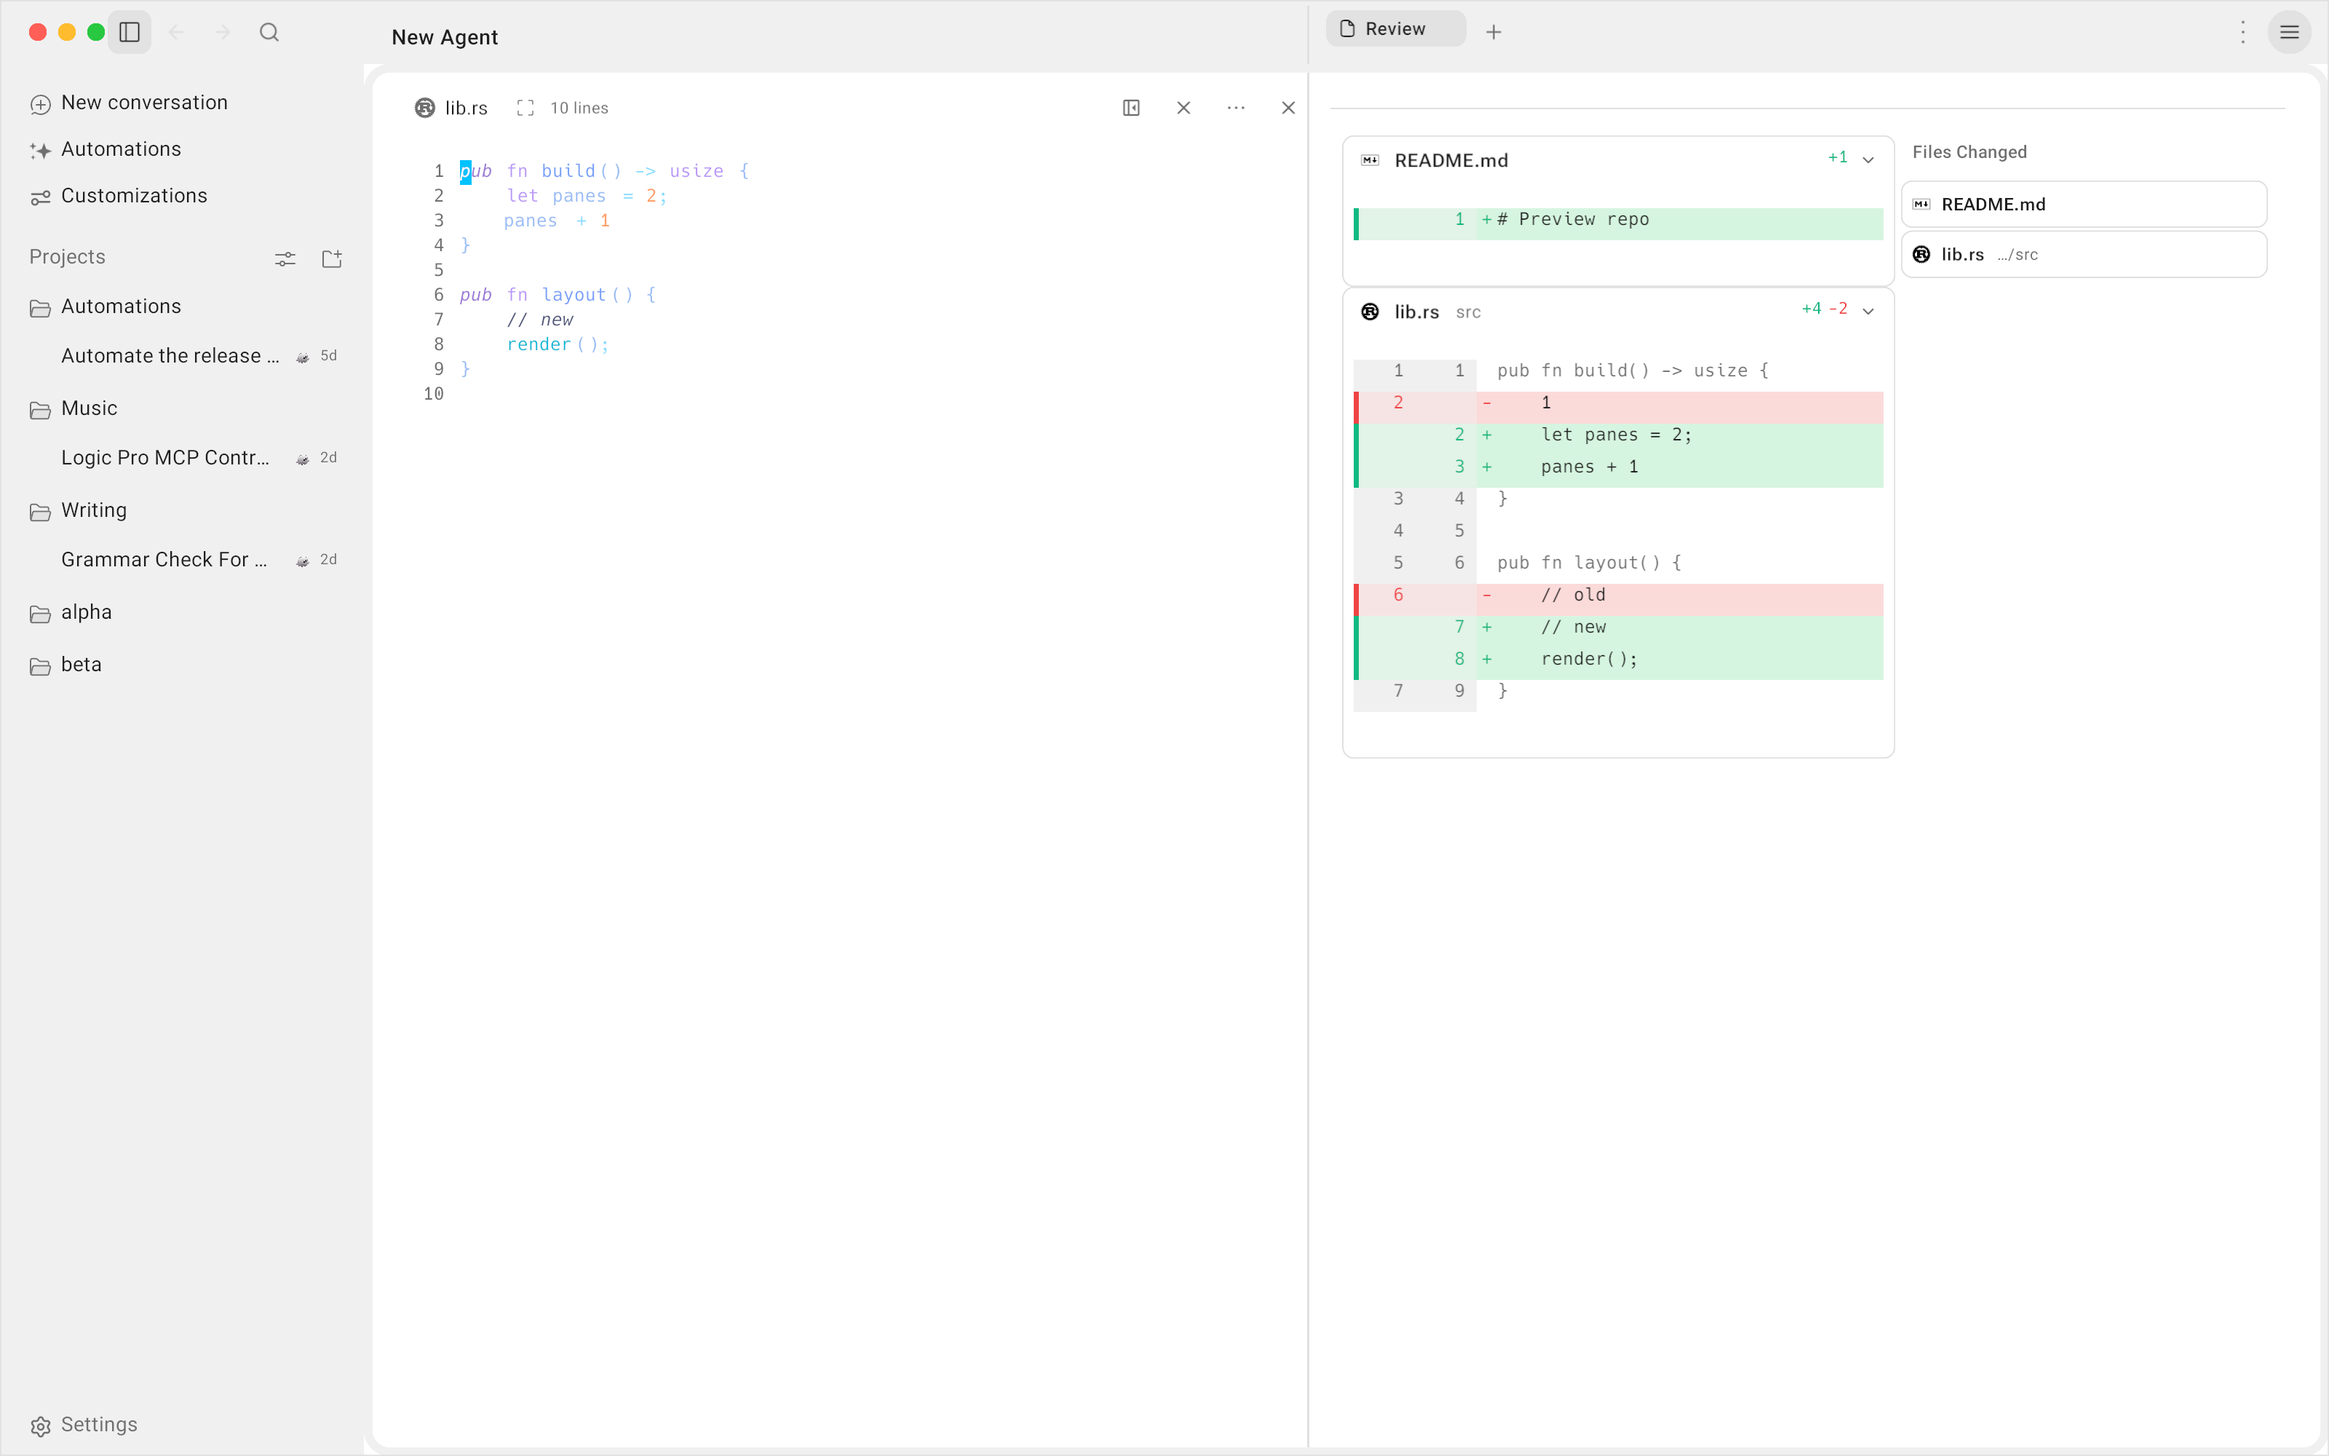
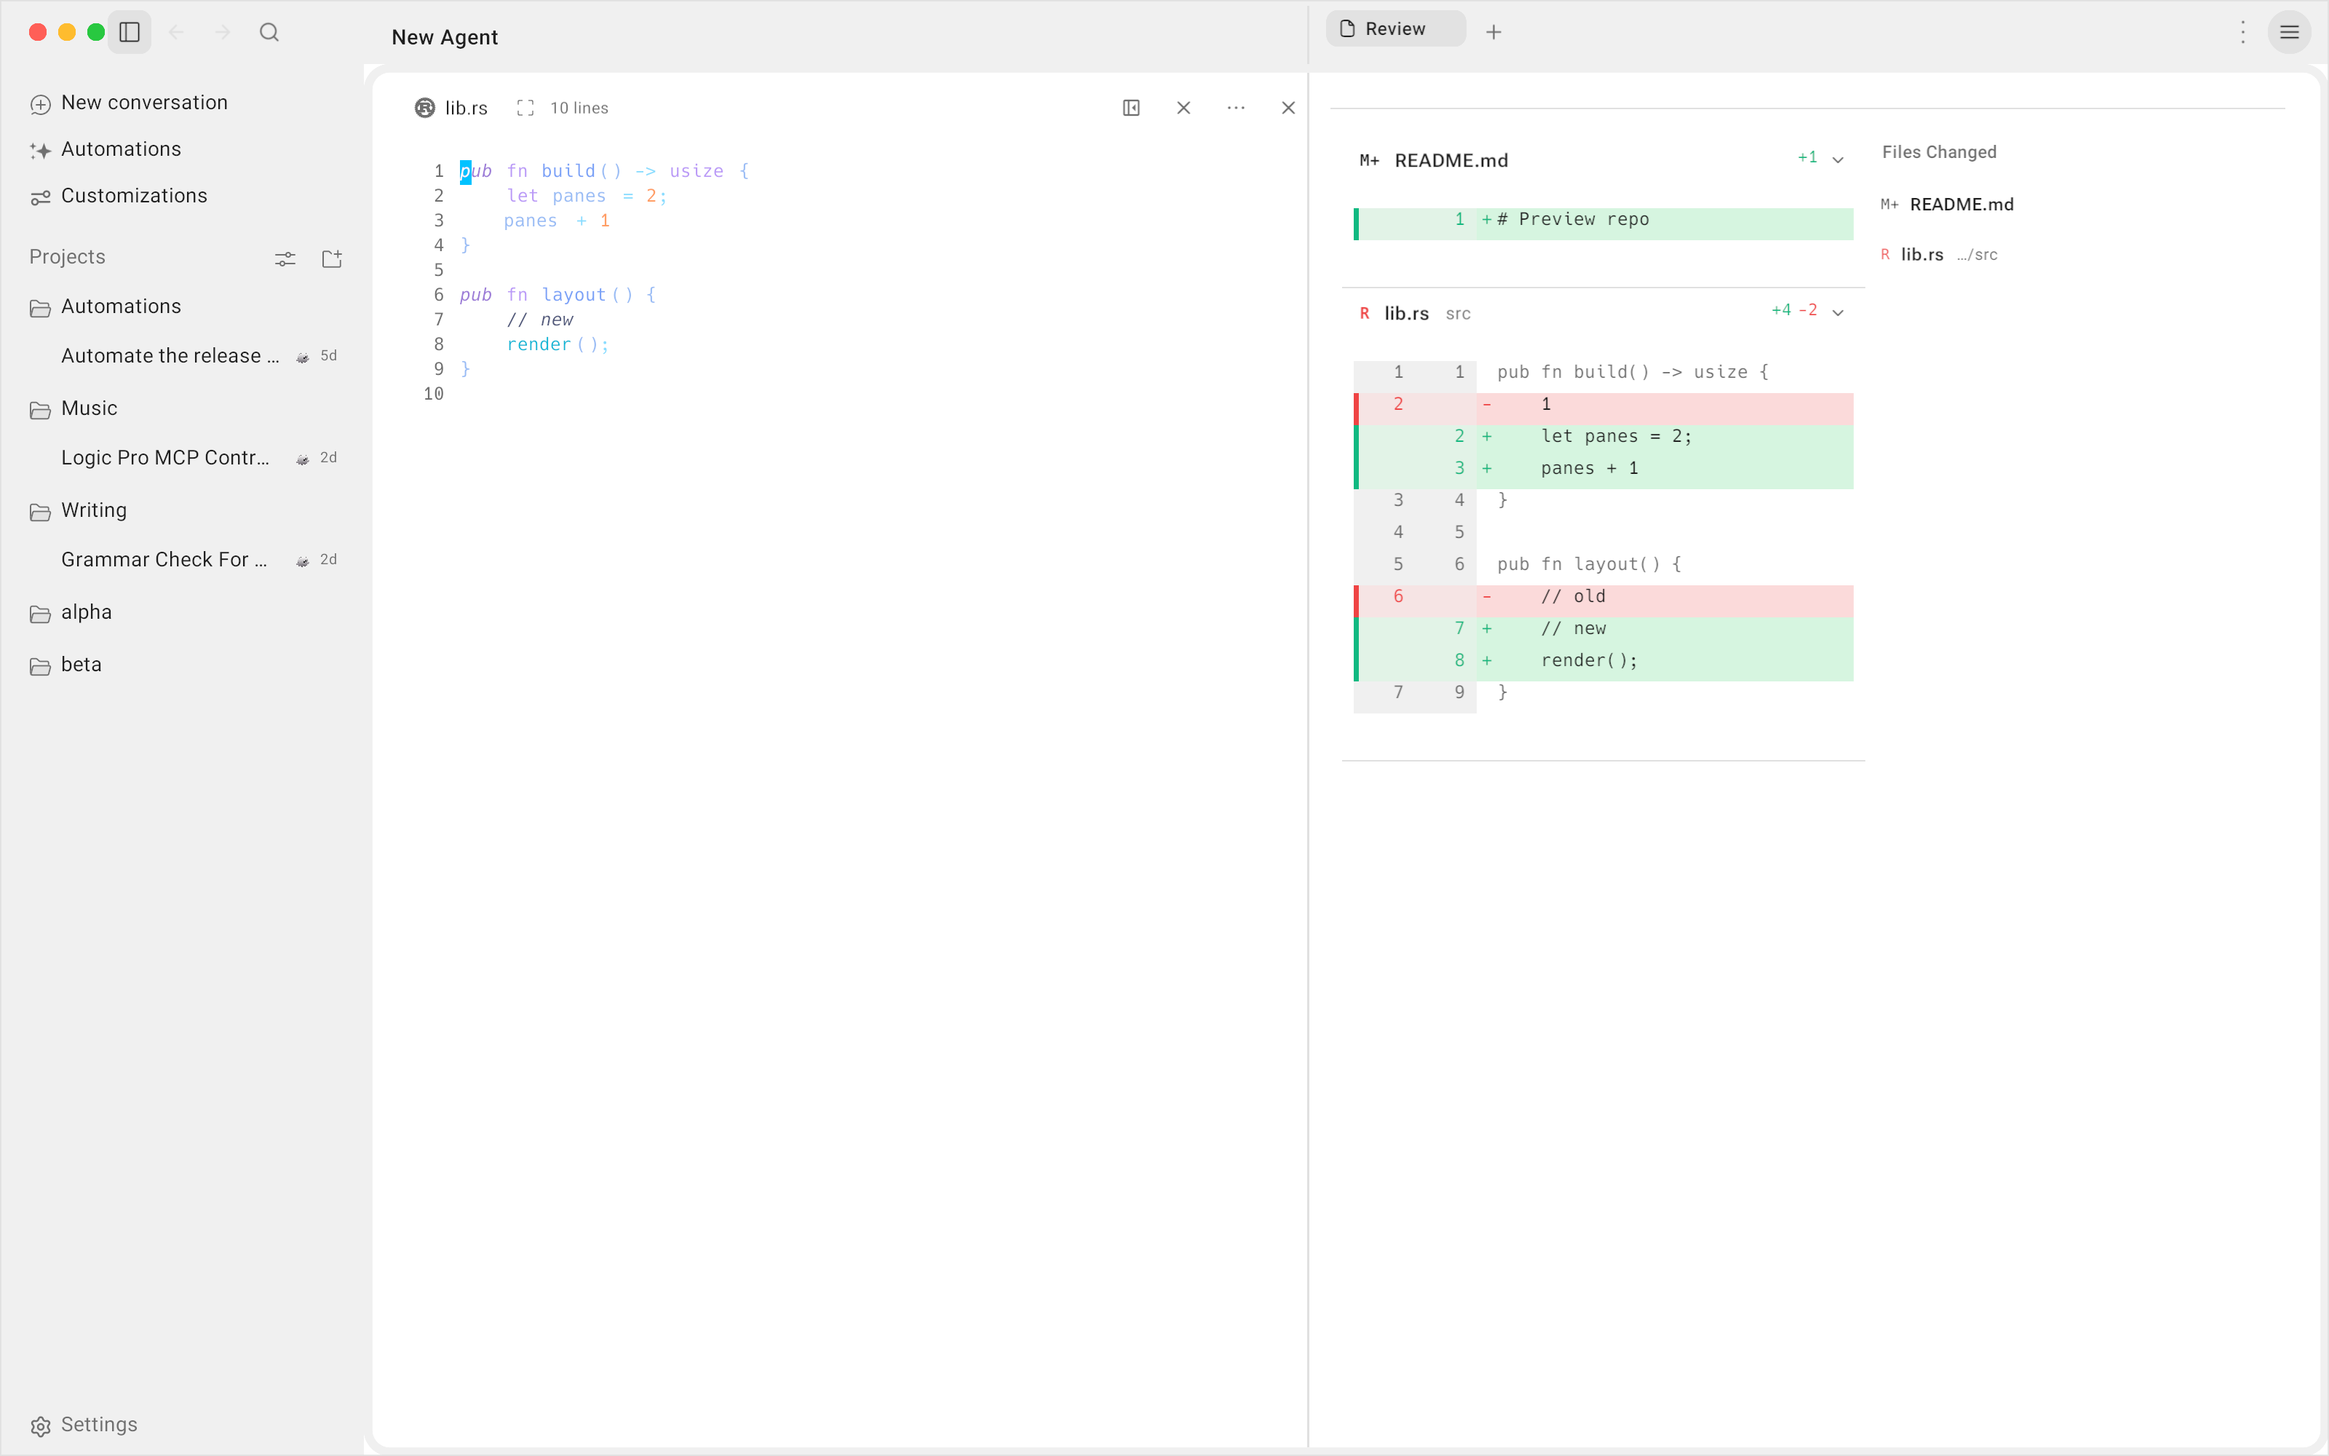
fix(review): flat file list, letter badges, 60/40 review proportions
214/215 — the left review column is flat again: one row per file, no per-row
card or outer border; per-extension letter badge, bold filename, left-truncated
muted path, right-aligned counts and fold chevron; thin 1 px dividers; hover
fill; the expanded diff sits directly under the row at full list width.
216 — the Files Changed rail is flat too (same badge/filename/path, no counts,
no per-row border) and scrolls.
217 — the panel width now uses the content area the sidebar leaves, so the file
list is ~60% and Files Changed ~40% of the review surface; the rail shows at the
normal side-panel width and the surface fills the panel with no dead gutter.
218/219 — real changed-file data and diffs, per-extension badges, and refreshed
same-scale review comparisons.

Tests: goble-app 916 passed / 8 documented baseline failures / 0 ignored;
goble-ui 981 passed / 0 failed / 0 ignored; goble-terminal shell integration 2
passed.

diff --git a/apps/desktop/src/ui/reviewer.rs b/apps/desktop/src/ui/reviewer.rs
@@ -1374,20 +1374,17 @@ mod ui_tests {
         );
     }
 
-    /// 204: each extension gets its real file-type asset; unknown text files
-    /// fall back to the generic document.
+    /// 218: the letter badge is per-extension and keeps the reference's glyphs.
     #[test]
-    fn file_rows_use_the_per_extension_assets() {
-        assert_eq!(super::file_type_icon("src/lib.rs"), "file-rust");
-        assert_eq!(super::file_type_icon("include/wheel.h"), "file-c");
-        assert_eq!(super::file_type_icon("wheel.c"), "file-c");
-        assert_eq!(super::file_type_icon("queue.cpp"), "file-cpp");
-        assert_eq!(super::file_type_icon("README.md"), "file-markdown");
-        assert_eq!(super::file_type_icon("package.json"), "file-json");
-        assert_eq!(super::file_type_icon("config.yaml"), "file-json");
-        assert_eq!(super::file_type_icon("run.sh"), "terminal");
-        assert_eq!(super::file_type_icon("Makefile"), "file");
-        assert_eq!(super::file_type_icon("LICENSE"), "file");
+    fn file_rows_use_per_extension_badges() {
+        assert_eq!(super::type_badge("src/lib.rs"), "R");
+        assert_eq!(super::type_badge("include/wheel.h"), "h");
+        assert_eq!(super::type_badge("wheel.c"), "c");
+        assert_eq!(super::type_badge("queue.cpp"), "c++");
+        assert_eq!(super::type_badge("README.md"), "M+");
+        assert_eq!(super::type_badge("package.json"), "{}");
+        assert_eq!(super::type_badge("config.yaml"), "Y");
+        assert_eq!(super::type_badge("run.sh"), ">_");
     }
 
     /// The toolbar toggles are real: the state flips and the bar's own label
@@ -1512,8 +1509,11 @@ pub(crate) fn files_changed_rail(
             .with_cross_axis_alignment(CrossAxisAlignment::Center)
             .with_spacing(7.0)
             .with_child(
-                Icon::new(file_type_icon(&file.path))
-                    .with_size(14.0)
+                Text::new(type_badge(&file.path))
+                    .with_font_family(FontFamily::Mono)
+                    .with_font_size(10.0)
+                    .with_weight(FontWeight::SemiBold)
+                    .with_theme_color(badge_color(&file.path), app)
                     .finish(),
             )
             .with_child(
@@ -1537,8 +1537,7 @@ pub(crate) fn files_changed_rail(
                 .finish(),
             )
             .finish();
-        // 210: the Files Changed rows wear the same 1 px rounded border as the
-        // left file cards; hover/selection only changes the fill inside.
+        // 216: flat Files Changed rows, no per-row border.
         let row = HoverRow::new(
             Container::new(row)
                 .with_padding(EdgeInsets::new(7.0, 9.0, 7.0, 9.0))
@@ -1551,10 +1550,6 @@ pub(crate) fn files_changed_rail(
             (on_files.borrow_mut())(absolute.clone());
         })
         .finish();
-        let row = Container::new(row)
-            .with_border(Border::all(1.0).with_border_color(app.theme.color(ColorToken::Border)))
-            .with_corner_radius(8.0)
-            .finish();
         column = column.with_child(row);
     }
     ConstrainedBox::new(
@@ -1578,41 +1573,6 @@ fn short_dir(path: &str) -> String {
         String::new()
     } else {
         format!("…/{tail}")
-    }
-}
-
-/// 204: the per-extension asset the file rows draw instead of a generic
-/// document/letter badge. Unknown text files fall back to the generic file.
-pub(crate) fn file_type_icon(path: &str) -> &'static str {
-    let name = short_name(path);
-    let lower = name.to_ascii_lowercase();
-    if lower == "makefile" {
-        return "file";
-    }
-    if lower == "readme.md" {
-        return "file-markdown";
-    }
-    let ext = lower.rsplit_once('.').map(|(_, ext)| ext).unwrap_or("");
-    match ext {
-        "rs" => "file-rust",
-        "c" | "h" => "file-c",
-        "cc" | "cpp" | "cxx" | "hpp" | "hh" | "mm" => "file-cpp",
-        "py" | "pyi" => "file-python",
-        "js" | "jsx" | "mjs" | "cjs" => "file-javascript",
-        "ts" | "tsx" => "file-typescript",
-        "json" | "jsonc" | "yaml" | "yml" | "toml" => "file-json",
-        "md" | "mdx" => "file-markdown",
-        "go" => "file-go",
-        "sql" => "file-sql",
-        "zig" => "file-zig",
-        "wasm" => "file-wasm",
-        "kt" | "kts" => "file-kotlin",
-        "php" => "file-php",
-        "pl" | "pm" => "file-perl",
-        "tf" | "tfvars" => "file-terraform",
-        "mmd" => "file-mermaid",
-        "sh" | "bash" | "zsh" | "fish" => "terminal",
-        _ => "file",
     }
 }
 
@@ -1648,9 +1608,13 @@ pub(crate) fn badge_color(path: &str) -> ColorToken {
         .map(|(_, ext)| ext.to_string())
         .unwrap_or_default();
     match ext.as_str() {
-        "h" | "hpp" | "c" | "cc" | "cpp" | "rs" | "ts" | "tsx" | "js" | "jsx" => ColorToken::Accent,
-        "json" => ColorToken::Warning,
-        "yaml" | "yml" | "sh" | "bash" | "zsh" => ColorToken::Success,
+        "h" | "hpp" => ColorToken::Focus,
+        "c" | "cc" | "cpp" => ColorToken::Success,
+        "rs" => ColorToken::Error,
+        "ts" | "tsx" | "js" | "jsx" => ColorToken::Warning,
+        "json" | "yaml" | "yml" => ColorToken::Warning,
+        "sh" | "bash" | "zsh" => ColorToken::Success,
+        "md" => ColorToken::Text,
         _ => ColorToken::Muted,
     }
 }

diff --git a/apps/desktop/src/ui/diff_panel.rs b/apps/desktop/src/ui/diff_panel.rs
@@ -309,12 +309,24 @@ pub(crate) fn build_review_tab(
         .is_some_and(|controls| *controls.diff_commit_open.borrow());
     // A narrow panel shows the diff alone: the ReviewTab selector in the
     // header still chooses files, and the one rail is the wide-layout list.
+    // The side panel is the trailing share of the content area the sidebar
+    // leaves, not of the whole window. Using the window width here made the
+    // rail too wide and squeezed the file list.
+    let area_width = (state.window_size.x
+        - if state.sidebar_visible {
+            state.sidebar_width
+        } else {
+            0.0
+        })
+    .max(240.0);
     let panel_width = if state.side_panel_maximized {
-        state.window_size.x.max(900.0)
+        area_width.max(900.0)
     } else {
-        (state.window_size.x * state.side_split_ratio).max(240.0)
+        (area_width
+            * crate::ui::build::resolved_side_split_ratio(state.side_split_ratio, area_width))
+        .max(240.0)
     };
-    let show_rail = panel_width >= 760.0;
+    let show_rail = panel_width >= 520.0;
     let compact = panel_width < 900.0;
 
     let mut column = Flex::column()
@@ -334,7 +346,11 @@ pub(crate) fn build_review_tab(
         }
         let selected = controls.diff_selected.borrow().clone();
         let expanded = controls.diff_expanded.borrow().clone();
-        let rail_width = if show_rail { 260.0 } else { 0.0 };
+        let rail_width = if show_rail {
+            (panel_width * 0.40).clamp(200.0, 420.0)
+        } else {
+            0.0
+        };
         let editing = controls.diff_editing.borrow().clone();
         let editors = state.pane_diff_editors.get(&pane_id);
         column = column.with_child(
@@ -1225,23 +1241,22 @@ fn file_block(
             content_width,
         ));
     }
-    // 202: every file is a full-width card with a 1 px rounded Border; the
-    // inline diff lives inside it and hover/selection paint over the border.
-    let card = Container::new(column.finish())
-        .with_border(Border::all(1.0).with_border_color(app.theme.color(ColorToken::Border)))
-        .with_corner_radius(8.0)
-        .finish();
-    let card: Box<dyn Element> = if content_width > 0.0 {
-        ConstrainedBox::new(card).with_width(content_width).finish()
+    // 214: the file list is flat — no per-file card or outer border. One thin
+    // divider closes each row and the expanded diff sits inside that row.
+    column = column.with_child(Divider::horizontal().finish());
+    let row: Box<dyn Element> = if content_width > 0.0 {
+        ConstrainedBox::new(column.finish())
+            .with_width(content_width)
+            .finish()
     } else {
-        card
+        column.finish()
     };
-    // The whole card is still the file's context-menu target.
+    // The whole row is still the file's context-menu target.
     let on_file_menu = actions.on_file_menu.clone();
     let menu_path = file.absolute_path.clone();
     let menu_copy_path = file.path.clone();
     file_menu::context_click(
-        card,
+        row,
         Rc::new(RefCell::new(move |at| {
             (on_file_menu.borrow_mut())(menu_path.clone(), menu_copy_path.clone(), at);
         })),
@@ -1278,8 +1293,11 @@ fn file_header(
         .with_cross_axis_alignment(CrossAxisAlignment::Center)
         .with_spacing(10.0)
         .with_child(
-            Icon::new(reviewer::file_type_icon(&file.path))
-                .with_size(14.0)
+            Text::new(reviewer::type_badge(&file.path))
+                .with_font_family(FontFamily::Mono)
+                .with_font_size(11.0)
+                .with_weight(FontWeight::Bold)
+                .with_theme_color(reviewer::badge_color(&file.path), app)
                 .finish(),
         )
         .with_child(

diff --git a/apps/desktop/src/ui/diff_panel_tests.rs b/apps/desktop/src/ui/diff_panel_tests.rs
@@ -975,7 +975,7 @@ fn a_large_inline_editor_draws_only_the_rows_in_view() {
 /// Y: changed files are flat full-width rows with one thin divider under each,
 /// not rounded cards or bordered boxes.
 #[test]
-fn every_file_card_has_a_rounded_border_at_the_column_width() {
+fn every_file_row_is_flat_with_a_thin_divider() {
     if !git_available() {
         return;
     }
@@ -986,34 +986,35 @@ fn every_file_card_has_a_rounded_border_at_the_column_width() {
     let (mut root, _desktop, _state, _dir, app) = review_root(&cwd);
     let commands = frame(&mut root, &app);
     let border = app.theme.color(goble_ui::theme::ColorToken::Border);
-    let cards: Vec<goble_ui::geometry::RectF> = commands
+    let dividers = commands
         .iter()
-        .filter_map(|command| match command {
-            RenderCommand::StrokeRect {
-                rect,
-                color,
-                corner_radius,
-                ..
-            } if *color == border
-                && (*corner_radius - 8.0).abs() < 0.01
-                && rect.height() > 30.0
-                && rect.width() > 200.0 =>
-            {
-                Some(*rect)
-            }
-            _ => None,
+        .filter(|command| {
+            matches!(
+                command,
+                RenderCommand::FillRect { rect, color, .. }
+                    if *color == border
+                        && rect.height() <= 1.01
+                        && rect.width() > 200.0
+            )
         })
-        .collect();
-    assert!(cards.len() >= 2, "both files wear a card border: {cards:?}");
-    let width = cards[0].width();
+        .count();
     assert!(
-        cards.iter().all(|card| (card.width() - width).abs() < 0.6),
-        "every card spans the same full list column: {cards:?}"
+        dividers >= 2,
+        "each file ends in a thin divider: {dividers}"
     );
-    assert!(
-        width > window().x * 0.35,
-        "the file column is not a narrow fixed rail: {width}"
-    );
+    let bordered_rows = commands
+        .iter()
+        .filter(|command| {
+            matches!(
+                command,
+                RenderCommand::StrokeRect { rect, corner_radius, .. }
+                    if (*corner_radius - 8.0).abs() < 0.01
+                        && rect.height() > 30.0
+                        && rect.width() > 200.0
+            )
+        })
+        .count();
+    assert_eq!(bordered_rows, 0, "the list has no per-row outer border");
 }
 
 #[test]

diff --git a/docs/design/README.md b/docs/design/README.md
@@ -179,10 +179,11 @@ unchanged composer (`slash-menu-*`), the Review tab beside the main chat
 (`split-review-*`), the file viewer with Review beside it
 (`split-file-viewer-*`) and the narrow split (`split-review-narrow-*`). The
 review surface has no inner header band: directly under the one general topbar
-its file column sits on the left as full-width bordered cards (real
-per-extension file icon, bold filename, muted tail-truncated path, counts, fold
-chevron and inline stacked diff) and the fixed 260 pt "Files Changed" rail on
-the right. The topbar's right edge ends in exactly the More kebab and the round
+its file column sits on the left as a flat list (per-extension letter badge,
+bold filename, muted tail-truncated path, counts, fold chevron, thin row
+dividers and inline stacked diff; no per-row outer border) and the "Files
+Changed" flat rail on the right at about 40% of the panel width (no per-row
+border). The topbar's right edge ends in exactly the More kebab and the round
 panel menu, with a 1 px rule between panel 1 and panel 2. The
 chat's changed-files card is the simpler T3 model: one collapsible bordered
 card on the chat background, "N files changed" + counts + chevron and a
